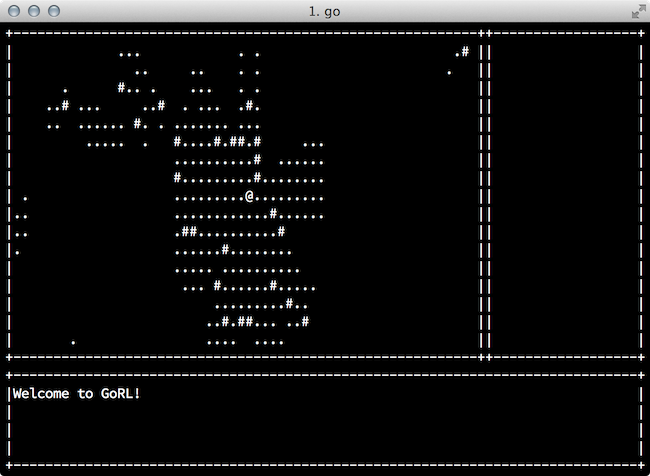
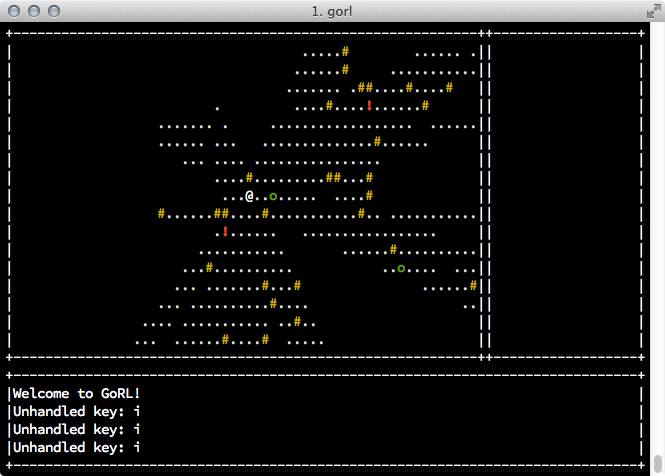
Extract Feature struct from Mob, add colors

diff --git a/lib/dungeon.go b/lib/dungeon.go
@@ -4,6 +4,7 @@ import (
 	"fmt"
 	"math/rand"
 	"strings"
+	"github.com/nsf/termbox-go"
 )
 
 type Coord struct {
@@ -16,6 +17,7 @@ func (c Coord) String() string {
 
 type Tile struct {
 	c     rune
+	color termbox.Attribute
 	flags Flag
 }
 
@@ -55,18 +57,19 @@ func (f Flag) String() string {
 	return fmt.Sprintf("<Flag %s>", strings.Join(on_flags, "|"))
 }
 
-func NewTile(c rune, flags Flag) Tile {
-	t := Tile{c, flags}
+func NewTile(c rune, color termbox.Attribute, flags Flag) Tile {
+	t := Tile{c, color, flags}
 	return t
 }
 
-var InvalidTile = Tile{' ', Flag(0) | FlagBlocksLight}
+var InvalidTile = Tile{' ', termbox.ColorBlack, Flag(0) | FlagBlocksLight}
 
 type Dungeon struct {
 	width, height int
 	origin        Coord
 	tiles         [][]Tile
 	mobs          map[Coord]Mob
+	features      map[Coord]Feature
 }
 
 func NewDungeon(width, height int) *Dungeon {
@@ -82,21 +85,34 @@ func NewDungeon(width, height int) *Dungeon {
 		Coord{width / 2, height / 2},
 		tiles,
 		make(map[Coord]Mob),
+		make(map[Coord]Feature),
 	}
 
 	var tile Tile
+	wallChance := 0.1
 	for x := 0; x < width; x++ {
 		for y := 0; y < width; y++ {
-			if rand.Float64() <= 0.1 {
-				tile = NewTile('#', Flag(0)|FlagBlocksLight)
+			if rand.Float64() <= wallChance {
+				tile = NewTile('#', termbox.ColorYellow, Flag(0)|FlagBlocksLight)
 			} else {
-				tile = NewTile('.', Flag(0)|FlagCrossable)
+				tile = NewTile('.', termbox.ColorWhite, Flag(0)|FlagCrossable)
 			}
 			m.tiles[y][x] = tile
 		}
 	}
 
 	return m
+}
+
+func (d *Dungeon) AddFeature(feature Feature) {
+	if other_feature, exists := d.features[feature.Loc()]; exists {
+		panic(fmt.Sprintf(
+			"Tried to put two features on same location: %s, %s",
+			feature,
+			other_feature,
+		))
+	}
+	d.features[feature.Loc()] = feature
 }
 
 func (d *Dungeon) AddMob(mob Mob) {
@@ -127,6 +143,9 @@ func (d *Dungeon) MoveMob(mob Mob, move Movement) {
 func (d *Dungeon) CalculateLighting() {
 	for loc, mob := range d.mobs {
 		d.FlagByLineOfSight(loc, mob.LightRadius(), FlagLit)
+	}
+	for loc, feature := range d.features {
+		d.FlagByLineOfSight(loc, feature.LightRadius(), FlagLit)
 	}
 }
 

diff --git a/lib/ui.go b/lib/ui.go
@@ -59,7 +59,7 @@ func NewUI() (*UI, error) {
 	}
 
 	width, height := termbox.Size()
-	ui := new(UI)
+	ui := &UI{}
 	ui.messages = make([]string, 0, 10)
 	ui.messageWidget = &MessageLogWidget{
 		0, height - height/4,
@@ -103,7 +103,7 @@ func (camera *CameraWidget) Paint() {
 		loc  Coord
 		out  Coord
 		x, y int
-		m    Mob
+		f    Feature
 		ok   bool
 	)
 	ne := Coord{camera.center.x - camera.width/2, camera.center.y - camera.height/2}
@@ -114,9 +114,12 @@ func (camera *CameraWidget) Paint() {
 			out = Coord{camera.x + x, camera.y + y}
 			tile = camera.dungeon.Tile(loc.x, loc.y)
 			if tile.Visible() && tile.Lit() {
-				camera.ui.PutRune(out.x, out.y, tile.c)
-				if m, ok = camera.dungeon.mobs[loc]; ok {
-					camera.ui.PutRune(out.x, out.y, m.Char())
+				camera.ui.PutRuneColor(out.x, out.y, tile.c, tile.color, termbox.ColorDefault)
+				if f, ok = camera.dungeon.features[loc]; ok {
+					camera.ui.PutRuneColor(out.x, out.y, f.Char(), f.Color(), termbox.ColorDefault)
+				}
+				if f, ok = camera.dungeon.mobs[loc]; ok {
+					camera.ui.PutRuneColor(out.x, out.y, f.Char(), f.Color(), termbox.ColorDefault)
 				}
 			}
 		}
@@ -148,8 +151,12 @@ func (menu *MenuWidget) Paint() {
 	menu.ui.PaintBorder(menu.x, menu.y, menu.x+menu.width-1, menu.y+menu.height-1, DefaultBoxStyle)
 }
 
+func (ui *UI) PutRuneColor(x, y int, r rune, fg, bg termbox.Attribute) {
+	termbox.SetCell(x, y, r, fg, bg)
+}
+
 func (ui *UI) PutRune(x, y int, r rune) {
-	termbox.SetCell(x, y, r, termbox.ColorDefault, termbox.ColorDefault)
+	ui.PutRuneColor(x, y, r, termbox.ColorDefault, termbox.ColorDefault)
 }
 
 func (ui *UI) PrintAt(x, y int, s string) {

diff --git a/lib/game.go b/lib/game.go
@@ -1,6 +1,7 @@
 package gorl
 
 import (
+	"github.com/nsf/termbox-go"
 	"math/rand"
 )
 
@@ -18,7 +19,7 @@ type Game struct {
 }
 
 func NewGame() (*Game, error) {
-	game := new(Game)
+	game := &Game{}
 	game.messages = make([]string, 0, 10)
 
 	dungeon := NewDungeon(DefaultDungeonWidth, DefaultDungeonHeight)
@@ -34,11 +35,22 @@ func NewGame() (*Game, error) {
 		for !dungeon.Tile(x, y).Crossable() {
 			x, y = rand.Int()%dungeon.width, rand.Int()%dungeon.height
 		}
-		mob := NewMob('o')
-		mob.loc.x = x
-		mob.loc.y = y
-		mob.lightRadius = 10
+		mob := NewMob("orc", 'o')
+		mob.color = termbox.ColorGreen
+		mob.loc = Coord{x, y}
 		dungeon.AddMob(mob)
+	}
+
+	for i := 0; i < 100; i ++ {
+		x, y := rand.Int()%dungeon.width, rand.Int()%dungeon.height
+		for !dungeon.Tile(x, y).Crossable() {
+			x, y = rand.Int()%dungeon.width, rand.Int()%dungeon.height
+		}
+		feature := NewFeature("torch", '!')
+		feature.loc = Coord{x, y}
+		feature.color = termbox.ColorRed | termbox.AttrBold
+		feature.lightRadius = 20
+		dungeon.AddFeature(feature)
 	}
 
 	dungeon.ResetFlag(FlagLit | FlagVisible)

diff --git a/lib/feature.go b/lib/feature.go
@@ -1,0 +1,67 @@
+package gorl
+
+import (
+	"fmt"
+	"github.com/nsf/termbox-go"
+)
+
+type Feature interface {
+	Loc() Coord
+	Name() string
+	Char() rune
+	Color() termbox.Attribute
+	Flags() Flag
+	LightRadius() int
+}
+
+type feature struct {
+	loc          Coord
+	name         string
+	char         rune
+	color        termbox.Attribute
+	flags        Flag
+	lightRadius  int
+}
+
+func NewFeature(name string, char rune) *feature {
+	f := &feature{}
+	f.name = name
+	f.char = char
+	f.color = termbox.ColorDefault
+	return f
+}
+
+func (f *feature) Loc() Coord {
+	return f.loc
+}
+
+func (f *feature) Name() string {
+	return f.name
+}
+
+func (f *feature) Char() rune {
+	return f.char
+}
+
+func (f *feature) Color() termbox.Attribute {
+	return f.color
+}
+
+func (f *feature) Flags() Flag {
+	return f.flags
+}
+
+func (f *feature) LightRadius() int {
+	return f.lightRadius
+}
+
+func (f *feature) String() string {
+	return fmt.Sprintf(
+		"<feature %s char:%c, loc:%s, flags:%s, lightRadius:%d>",
+		f.name,
+		f.char,
+		f.loc,
+		f.flags,
+		f.lightRadius,
+	)
+}

diff --git a/lib/mob.go b/lib/mob.go
@@ -3,35 +3,20 @@ package gorl
 import "fmt"
 
 type Mob interface {
-	Loc() Coord
-	Char() rune
-	Flags() Flag
+	Feature
 	VisionRadius() int
-	LightRadius() int
-
 	Move(Movement)
 }
 
 type mob struct {
-	loc          Coord
-	char         rune
-	flags        Flag
+	feature
 	visionRadius int
-	lightRadius  int
 }
 
-func NewMob(char rune) *mob {
+func NewMob(name string, char rune) *mob {
 	m := &mob{}
-	m.char = char
+	m.feature = *NewFeature(name, char)
 	return m
-}
-
-func (m *mob) Loc() Coord {
-	return m.loc
-}
-
-func (m *mob) Char() rune {
-	return m.char
 }
 
 func (m *mob) VisionRadius() int {
@@ -43,20 +28,10 @@ func (m *mob) Move(movement Movement) {
 	m.loc.y += movement.y
 }
 
-func (m *mob) Flags() Flag {
-	return m.flags
-}
-
-func (m *mob) LightRadius() int {
-	return m.lightRadius
-}
-
 func (m *mob) String() string {
 	return fmt.Sprintf(
-		"<Mob char:%c, loc:%s, flags:%s, visionRadius:%d>",
-		m.char,
-		m.loc,
-		m.flags,
+		"<Mob feature:%s, visionRadius:%d>",
+		m.feature,
 		m.visionRadius,
 	)
 }

diff --git a/lib/player.go b/lib/player.go
@@ -6,12 +6,12 @@ type Player struct {
 
 const (
 	PlayerVisionRadius = 100
-	PlayerLightRadius  = 10
+	PlayerLightRadius  = 2
 )
 
 func NewPlayer() *Player {
 	p := &Player{
-		*NewMob('@'),
+		*NewMob("Player", '@'),
 	}
 	p.visionRadius = PlayerVisionRadius
 	p.lightRadius = PlayerLightRadius
